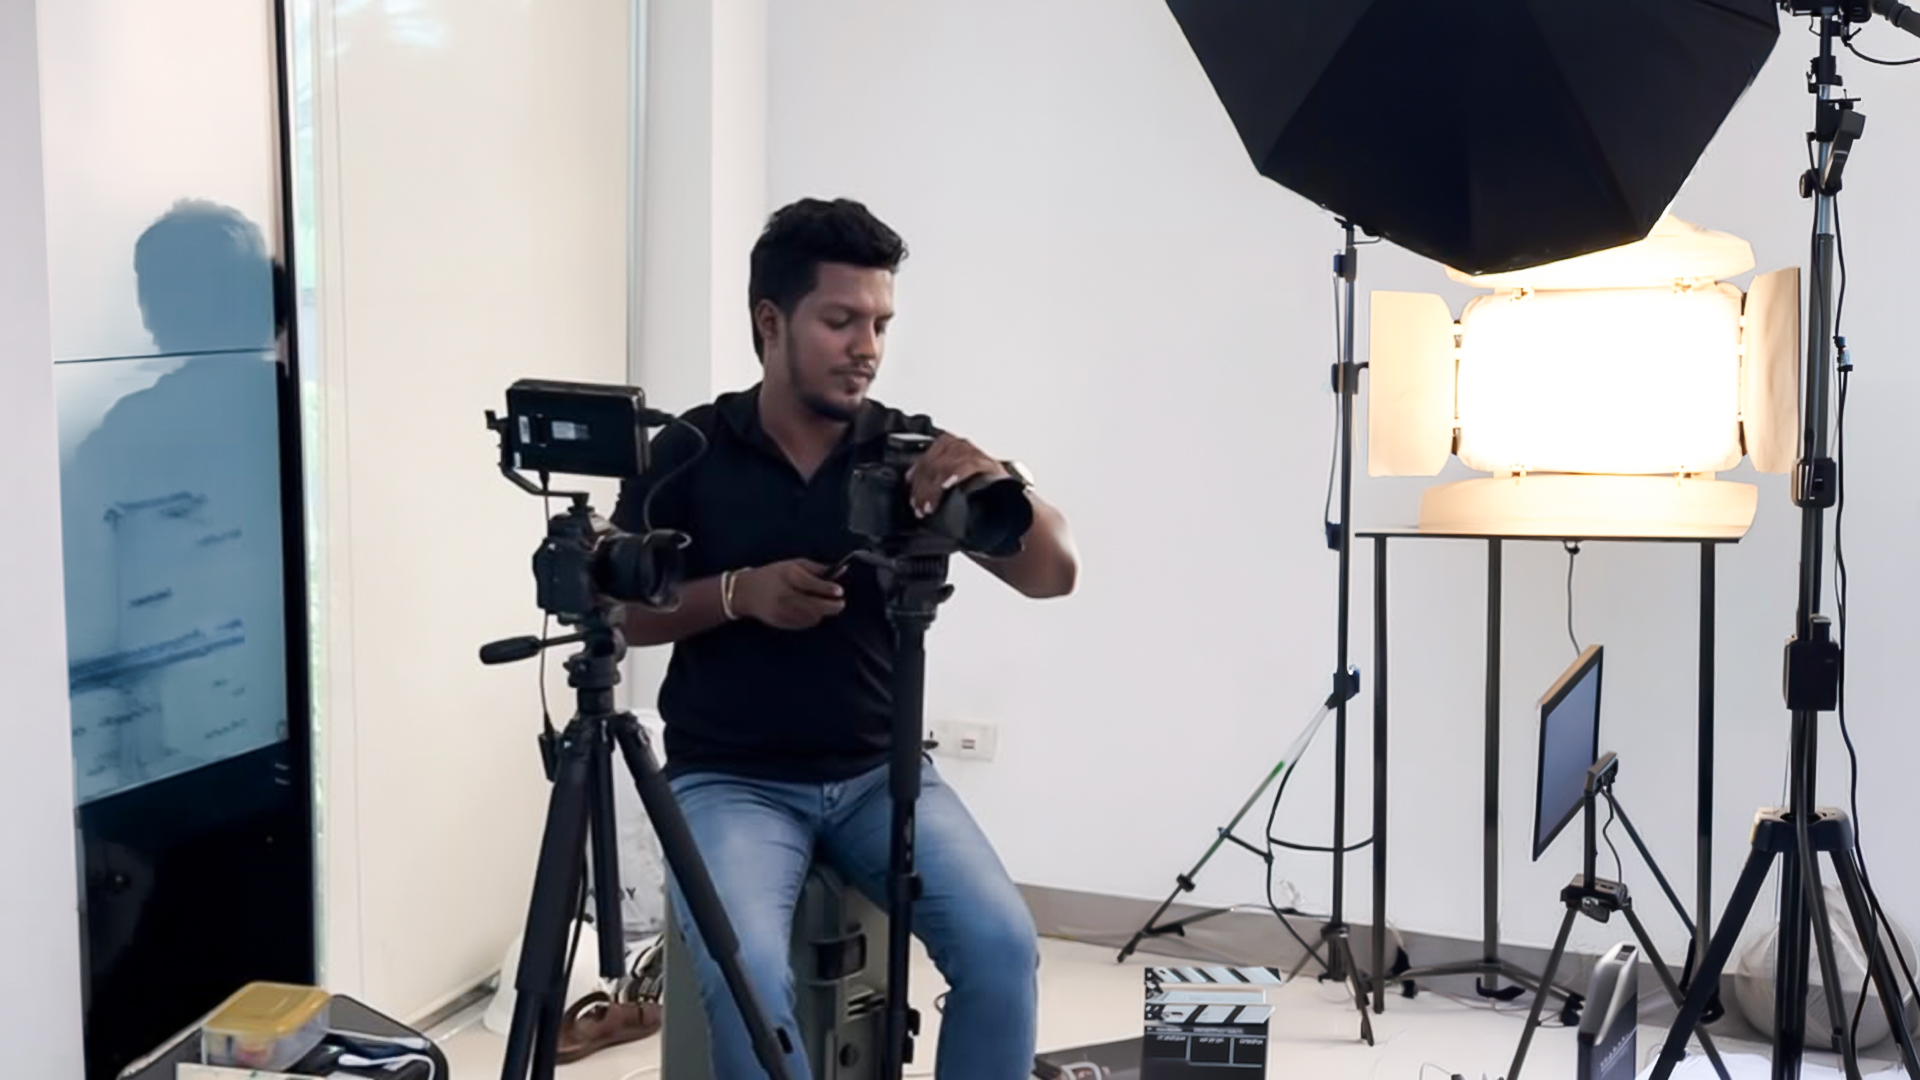
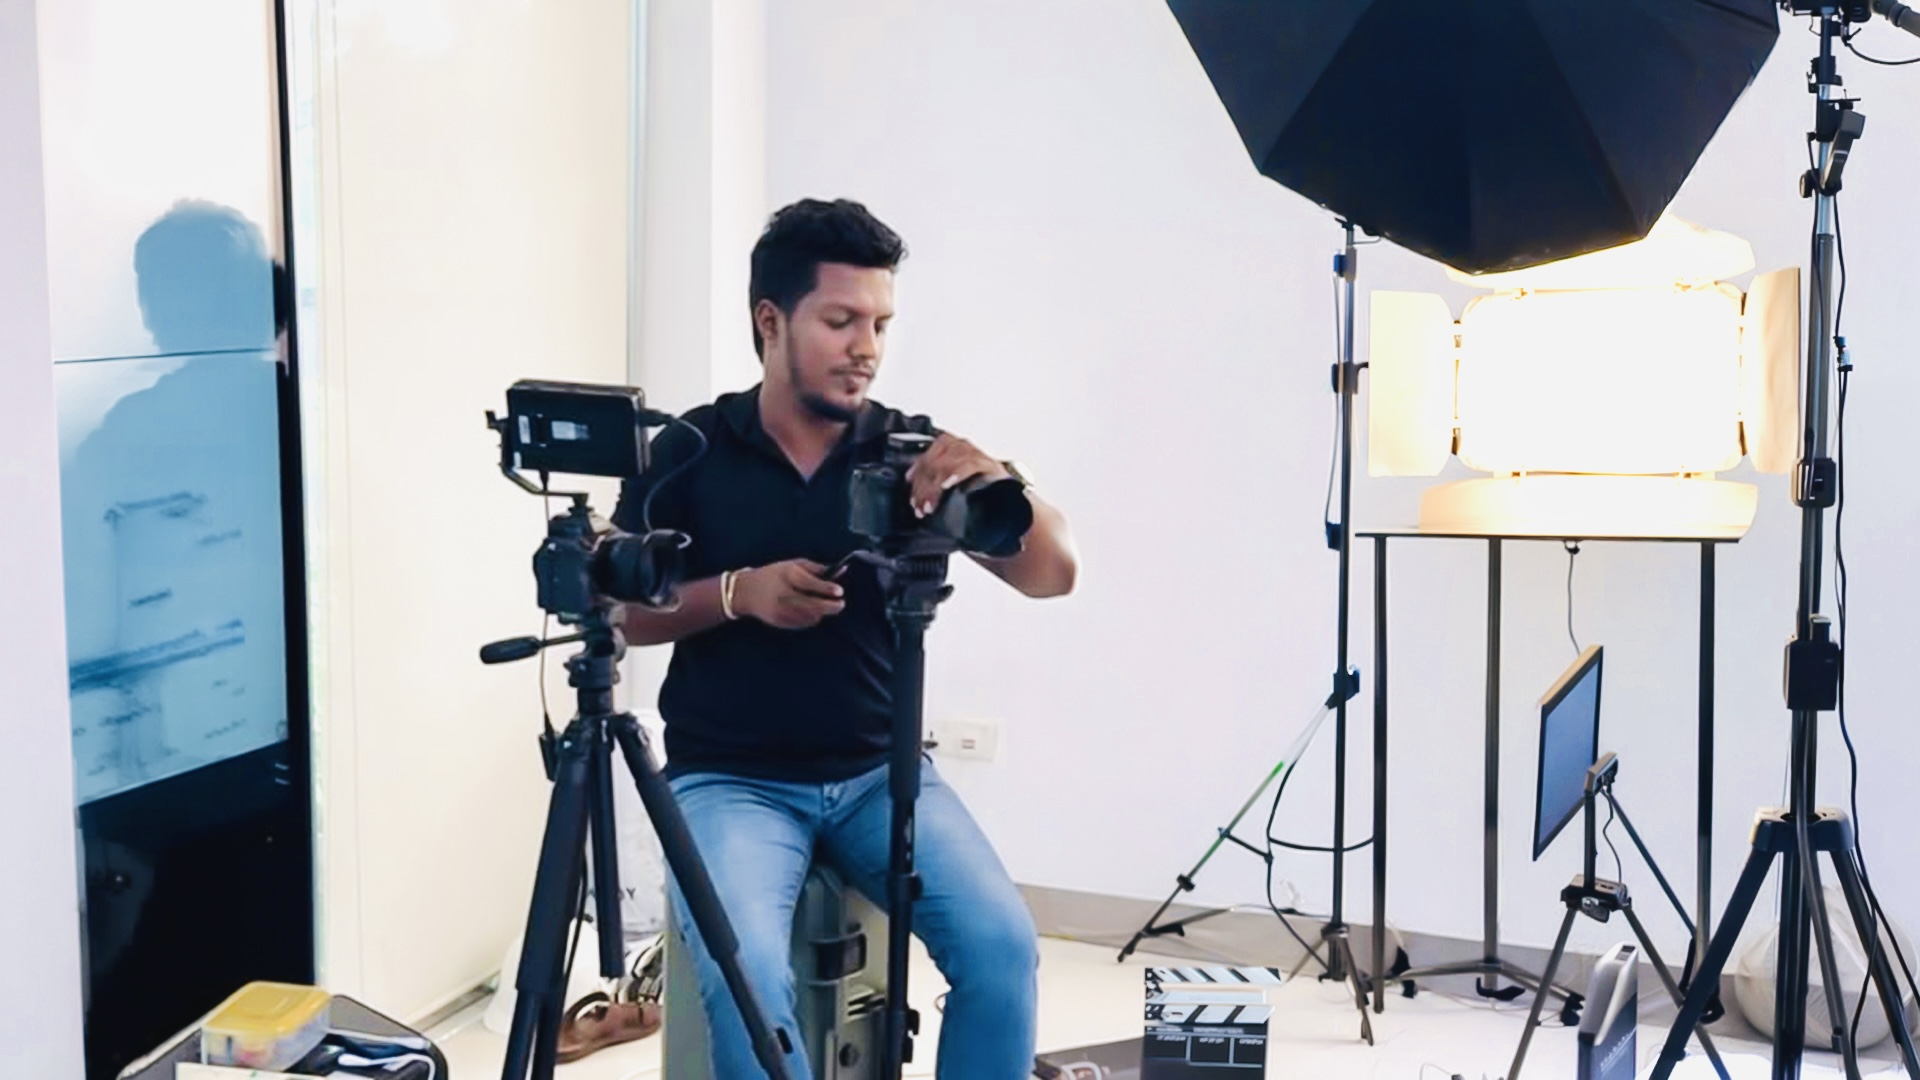
ScrollToTop and Hero button Signed-off-by: OPT Dulanjana <140092772+TheekshanaDulanjana@users.noreply.github.com>

diff --git a/src/Components/WhatsappButton.jsx b/src/Components/WhatsappButton.jsx
@@ -4,57 +4,80 @@ import whatsappDP from "../assets/WhatsappDP.png";
 
 const WhatsappWidget = ({ showScrollButton }) => {
   const [isOpen, setIsOpen] = useState(false);
+
   const phoneNumber = "94776996981";
   const message = "Hi! I would like to get some information.";
 
   const openWhatsApp = () => {
     const fullMessage = `${message}\n\n--- Message from website ---`;
-    const url = `https://wa.me/${phoneNumber}?text=${encodeURIComponent(fullMessage)}`;
+    const url = `https://wa.me/${phoneNumber}?text=${encodeURIComponent(
+      fullMessage
+    )}`;
+
     window.open(url, "_blank");
   };
 
   return (
-    <div className={`fixed z-50 flex flex-col items-end gap-4 right-4 md:right-10 ${showScrollButton ? "bottom-[5.5rem]" : "bottom-6 md:bottom-8"}`}>
-      {/* Modal */}
-      {isOpen && (
-        <div className="p-6 bg-black bg-gradient-to-tr from-white/15 to-transparent rounded-2xl shadow-2xl w-[90vw] md:w-96 border border-white/50 transition-all duration-300 ease-in-out animate-fadeIn">
+    <div
+      className={`fixed right-4 md:right-10 z-50 flex flex-col items-end transition-all duration-300 ease-in-out ${
+        showScrollButton
+          ? "bottom-[5.8rem] md:bottom-[6.2rem]"
+          : "bottom-6 md:bottom-8"
+      }`}
+    >
+      {/* Chat Popup */}
+      <div
+        className={`mb-4 transition-all duration-300 ease-in-out origin-bottom-right ${
+          isOpen
+            ? "opacity-100 scale-100 translate-y-0 pointer-events-auto"
+            : "opacity-0 scale-95 translate-y-4 pointer-events-none"
+        }`}
+      >
+        <div className="p-6 bg-black bg-gradient-to-tr from-white/15 to-transparent rounded-2xl shadow-2xl w-[90vw] md:w-96 border border-white/50 backdrop-blur-md">
           <div className="flex items-center gap-3 mb-5">
-            <img 
-              src={whatsappDP} 
-              alt="Studio VisualFX" 
+            <img
+              src={whatsappDP}
+              alt="Studio VisualFX"
               className="w-10 h-10 rounded-full object-cover"
             />
+
             <div>
-              <p className="text-white font-roboto text-base">Studio VisualFX (PVT) Ltd</p>
+              <p className="text-white font-roboto text-base">
+                Studio VisualFX (PVT) Ltd
+              </p>
+
               <p className="text-xs font-roboto text-green-400 flex items-center gap-1.5">
                 <span className="relative flex h-2 w-2">
-                  <span className="animate-ping absolute inline-flex h-full w-full rounded-full bg-green-400 opacity-75"></span>
-                  <span className="relative inline-flex rounded-full h-2 w-2 bg-green-500"></span>
+                  <span className="absolute inline-flex h-full w-full rounded-full bg-green-400 opacity-75 animate-ping"></span>
+                  <span className="relative inline-flex h-2 w-2 rounded-full bg-green-500"></span>
                 </span>
                 Online
               </p>
             </div>
           </div>
-          
-          <div className="bg-[#161717] p-4 rounded-xl mb-5 text-white text-sm leading-relaxed relative before:content-[''] before:absolute before:left-3 before:-top-2 before:w-4 before:h-4 before:bg-[#161717] before:rotate-45 before:clip-path-triangle">
-            <p className="font-roboto font-semibold text-green-300 mb-1">Hi 👋</p>
-            Welcome to Studio VisualFX.<br />
+
+          <div className="relative mb-5 rounded-xl bg-[#161717] p-4 text-sm leading-relaxed text-white">
+            <p className="mb-1 font-semibold text-green-300">Hi 👋</p>
+
+            Welcome to Studio VisualFX.
+            <br />
             How can we help you today?
           </div>
-          
-          <button 
+
+          <button
             onClick={openWhatsApp}
-            className="w-full bg-green-600 text-white py-3 rounded-xl cursor-pointer font-roboto flex items-center justify-center gap-2.5 hover:bg-green-700 transition-colors shadow-md"
+            className="flex w-full cursor-pointer items-center justify-center gap-2.5 rounded-xl bg-green-600 py-3 font-roboto text-white shadow-md transition-all duration-300 hover:bg-green-700"
           >
-            <FaWhatsapp className="text-xl" /> Start Chat
+            <FaWhatsapp className="text-xl" />
+            Start Chat
           </button>
         </div>
-      )}
+      </div>
 
-      {/* WhatsApp button */}
+      {/* Floating WhatsApp Button */}
       <button
         onClick={() => setIsOpen(!isOpen)}
-        className="w-12 h-12 flex cursor-pointer items-center justify-center rounded-full bg-white text-black hover:bg-green-500 hover:text-white transition-all hover:scale-105"
+        className="flex h-12 w-12 cursor-pointer items-center justify-center rounded-full bg-white text-black shadow-xl transition-all duration-300 hover:scale-110 hover:bg-green-500 hover:text-white"
       >
         <FaWhatsapp className="text-2xl" />
       </button>

diff --git a/src/Pages/Home.jsx b/src/Pages/Home.jsx
@@ -34,7 +34,7 @@ const Home = () => {
 
   return (
     <div className="overflow-x-hidden">
-      {/* Hero Section - Updated alignment to items-end for bottom-left positioning */}
+      {/* Hero Section */}
       <section className="relative flex w-screen min-h-screen items-end justify-start px-6 pb-20 md:px-16">
 
         {/* Desktop Fallback Image */}
@@ -94,10 +94,10 @@ const Home = () => {
           }}
         ></div>
 
-        {/* Overlay for better text readability */}
+        {/* Overlay */}
         <div className="absolute inset-0 bg-linear-to-t from-black/80 via-black/20 to-transparent"></div>
 
-        {/* Content - Bottom Left Positioned */}
+        {/* Content */}
         <motion.div
           className="relative z-10 w-full max-w-3xl flex flex-col items-start text-left"
           initial={{ opacity: 0, y: 30 }}
@@ -105,7 +105,7 @@ const Home = () => {
           transition={{ duration: 1, ease: "easeOut" }}
         >
           <motion.h1
-            className="text-4xl sm:text-5xl md:text-7xl font-belleza text-white leading-tight"
+            className="text-3xl sm:text-5xl md:text-7xl font-belleza text-white leading-tight"
             initial={{ opacity: 0, y: 30 }}
             animate={{ opacity: 1, y: 0 }}
             transition={{ delay: 0.2, duration: 1 }}
@@ -114,7 +114,7 @@ const Home = () => {
           </motion.h1>
 
           <motion.p
-            className="text-white/90 font-roboto text-base md:text-lg mt-4 max-w-2xl"
+            className="text-white/90 font-roboto font-light text-base  mt-4 max-w-2xl"
             initial={{ opacity: 0, y: 30 }}
             animate={{ opacity: 1, y: 0 }}
             transition={{ delay: 0.4, duration: 1 }}
@@ -123,21 +123,21 @@ const Home = () => {
           </motion.p>
 
           <motion.div
-            className="flex flex-wrap gap-4 mt-8"
+            className="flex flex-nowrap gap-2 sm:gap-4 mt-8"
             initial={{ opacity: 0, y: 30 }}
             animate={{ opacity: 1, y: 0 }}
             transition={{ delay: 0.6, duration: 1 }}
           >
             <button
               onClick={() => navigate("/film-gallery")}
-              className="px-8 py-3 bg-white cursor-pointer hover:border hover:boarder-white text-sm text-black font-semibold rounded-full hover:bg-black hover:text-white transition duration-300"
+              className="px-4 sm:px-8 py-3 bg-white cursor-pointer hover:border hover:border-white text-xs sm:text-sm text-black font-semibold rounded-full hover:bg-black hover:text-white transition duration-300 whitespace-nowrap"
             >
               View Portfolio
             </button>
 
             <button
               onClick={scrollToContact}
-              className="px-8 py-3 border cursor-pointer hover:border  hover:boarder-black  border-white text-sm text-white font-semibold rounded-full hover:bg-white hover:text-black transition duration-300"
+              className="px-4 sm:px-8 py-3 border cursor-pointer hover:border hover:border-black border-white text-xs sm:text-sm text-white font-semibold rounded-full hover:bg-white hover:text-black transition duration-300 whitespace-nowrap"
             >
               Book Your Session
             </button>

diff --git a/src/Components/ScrollToTopCompo.jsx b/src/Components/ScrollToTopCompo.jsx
@@ -1,44 +1,64 @@
-import { useState, useEffect } from 'react';
-import { FaArrowUp } from 'react-icons/fa';
+import { useEffect, useState } from "react";
+import { FaArrowUp } from "react-icons/fa";
 
-const ScrollToTop = () => {
-  const [showScrollButton, setShowScrollButton] = useState(false);
+const ScrollToTop = ({ onVisibilityChange }) => {
+  const [visible, setVisible] = useState(false);
 
   useEffect(() => {
-    let timeout;
     const handleScroll = () => {
-      if (window.scrollY > 500) {
-        setShowScrollButton(true);
-        clearTimeout(timeout);
-        timeout = setTimeout(() => setShowScrollButton(false), 10000);
-      } else {
-        setShowScrollButton(false);
+      const shouldShow = window.scrollY > 600;
+
+      setVisible(shouldShow);
+
+      if (onVisibilityChange) {
+        onVisibilityChange(shouldShow);
       }
     };
 
-    window.addEventListener('scroll', handleScroll);
-    return () => {
-      window.removeEventListener('scroll', handleScroll);
-      clearTimeout(timeout);
-    };
-  }, []);
+    window.addEventListener("scroll", handleScroll);
+
+    handleScroll();
+
+    return () => window.removeEventListener("scroll", handleScroll);
+  }, [onVisibilityChange]);
 
   const scrollToTop = () => {
-    window.scrollTo({ top: 0, behavior: 'smooth' });
+    window.scrollTo({
+      top: 0,
+      behavior: "smooth",
+    });
   };
 
+  if (!visible) return null;
+
   return (
-    showScrollButton && (
-      <button
-        onClick={scrollToTop}
-        className="fixed cursor-pointer rounded-full bottom-8 right-10 w-10 h-10 flex items-center justify-center bg-white text-black transition-transform transform hover:scale-110 group z-60 overflow-hidden"
-        aria-label="Scroll to top"
-      >
-        <span className="relative z-10 transition-colors duration-300">
-          <FaArrowUp className="text-sm font-bold" />
-        </span>
-      </button>
-    )
+    <button
+      onClick={scrollToTop}
+      className="
+        fixed
+        right-4
+        md:right-10
+        bottom-6
+        md:bottom-8
+        z-50
+        w-12
+        h-12
+        rounded-full
+        bg-white
+        text-black
+        shadow-xl
+        flex
+        items-center
+        justify-center
+        transition-all
+        duration-300
+        hover:scale-110
+        animate-fadeInUp
+        cursor-pointer
+      "
+    >
+      <FaArrowUp className="text-lg" />
+    </button>
   );
 };
 

diff --git a/src/App.jsx b/src/App.jsx
@@ -9,6 +9,7 @@ import ScrollToTop from "./Components/ScrollToTop";
 import LoadingSpinner from "./Components/LoadingSpinner";
 import WhatsappButton from "./Components/WhatsappButton";
 import SmoothScroll from './Components/SmoothScroll'; 
+import ScrollToTopCompo from "./Components/ScrollToTopCompo";
 
 // Pages
 import Home from "./Pages/Home";
@@ -52,6 +53,7 @@ export default function App() {
 const MainApp = () => {
   const location = useLocation();
   const [pageLoading, setPageLoading] = useState(false);
+  const [showScrollButton, setShowScrollButton] = useState(false);
 
   useEffect(() => {
     const measurementId = import.meta.env.VITE_GA_MEASUREMENT_ID;
@@ -125,7 +127,9 @@ const MainApp = () => {
                 </Routes>
               </main>
 
-              <WhatsappButton />
+              <ScrollToTopCompo onVisibilityChange={setShowScrollButton}
+      /> 
+              <WhatsappButton showScrollButton={showScrollButton} />
               <Footer />
             </div>
           </>

diff --git a/src/Components/Footer.jsx b/src/Components/Footer.jsx
@@ -67,13 +67,10 @@ export default function Footer() {
             <h3 className="text-white font-belleza text-lg mb-4">Service Coverage</h3>
             <ul className="space-y-2 text-sm md:text-sm font-roboto">
                           <li className="flex items-center justify-center md:justify-start gap-3">
-                <p className="text-white/70 hover:text-white">Colombo, Sri Lanka </p>
+                <p className="text-white/70 hover:text-white">Islandwide Across Sri Lanka</p>
               </li>
               <li className="flex items-center justify-center md:justify-start gap-3">
-                <p className="text-white/70 hover:text-white">Galle, Sri Lanka</p>
-              </li>
-              <li className="flex items-center justify-center md:justify-start gap-3">
-                <p className="text-white/70 hover:text-white">Matara, Sri Lanka</p>
+                <p className="text-white/70 hover:text-white">Matara (Main Hub)</p>
               </li>
   
             </ul>

diff --git a/src/Pages/About.jsx b/src/Pages/About.jsx
@@ -16,7 +16,7 @@ export default function About() {
           <div className="max-w-7xl">
             
             <h1 className="text-3xl text-white md:text-6xl leading-12 sm:leading-18 tracking-tight mb-6 font-belleza">
-              Crafting Timeless Visual Journeys <br />Through Passion, Vision, and Cinematic Creativity
+              Crafting Timeless Visual Journeys Through Passion, Vision, and Cinematic Creativity
             </h1>
 
             <p className="text-sm text-white text-justify leading-relaxed font-roboto">
